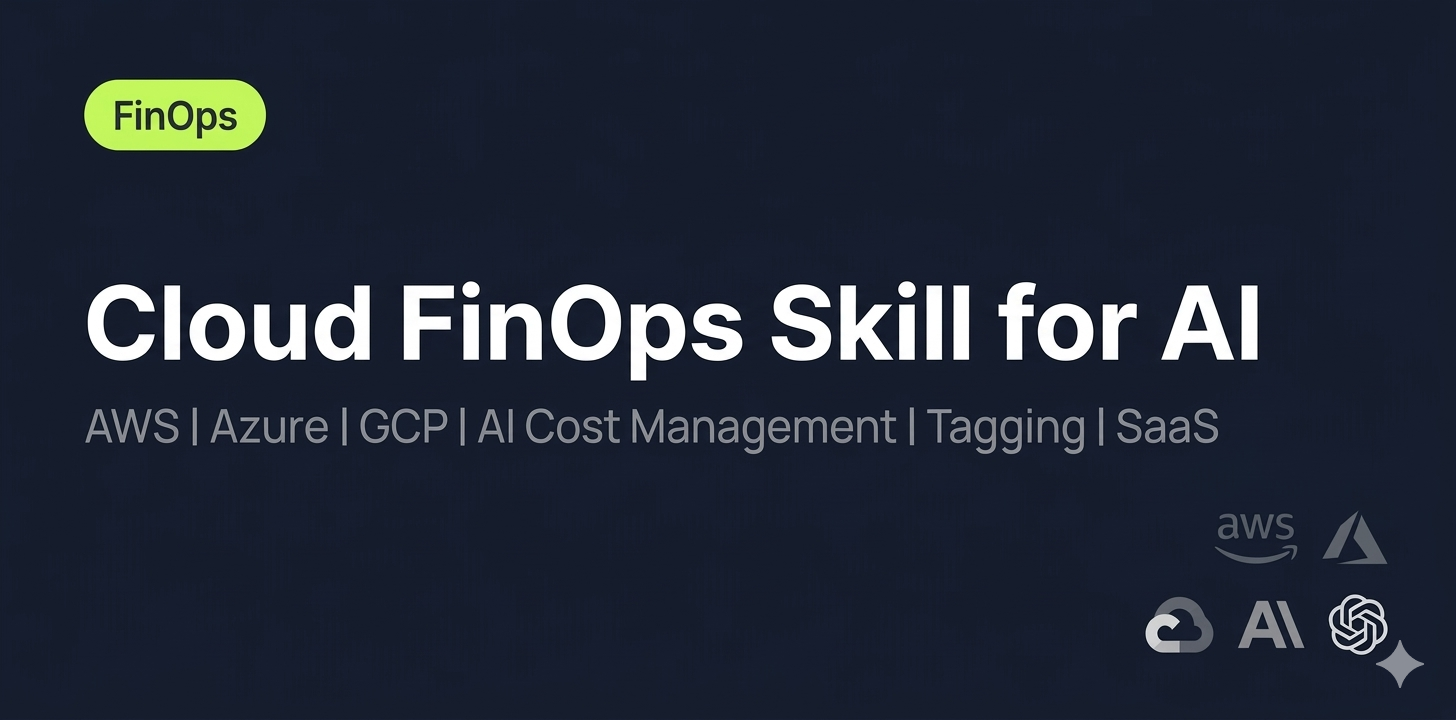
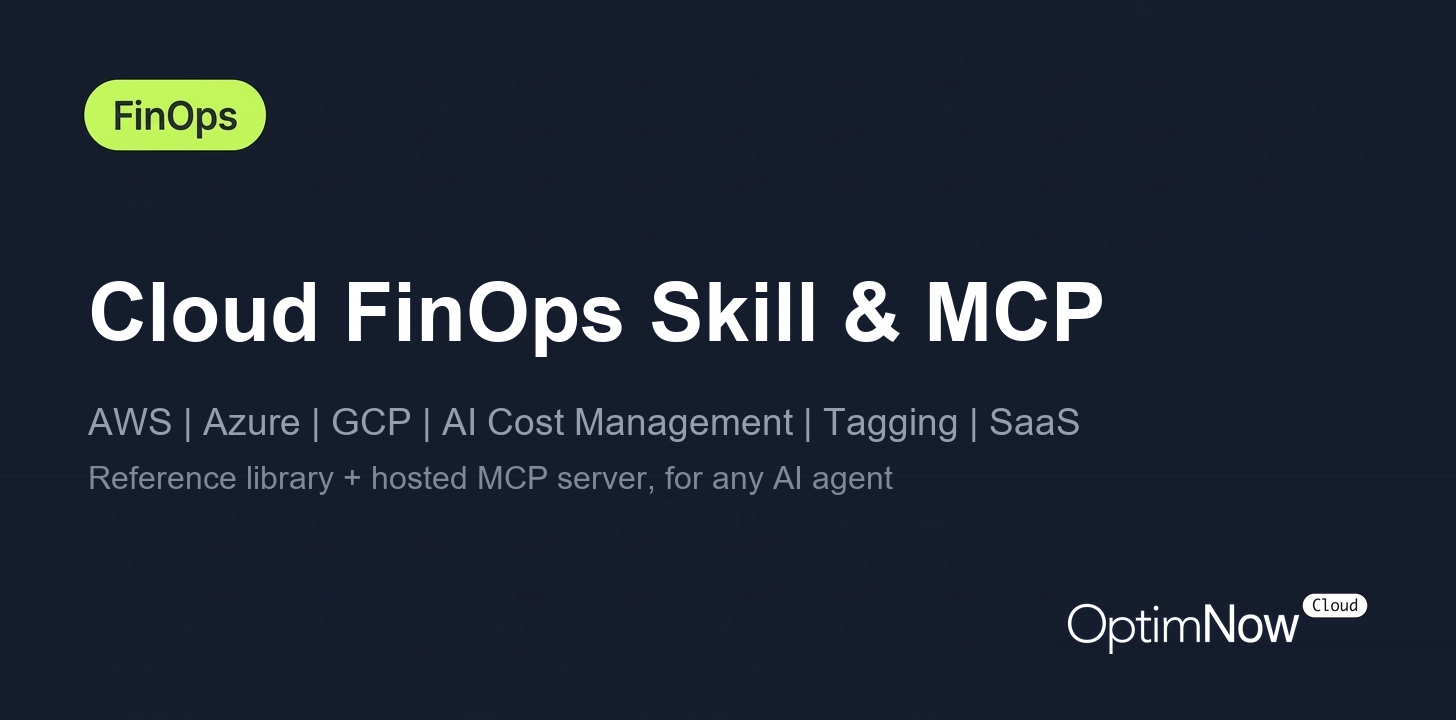
Rename to Cloud FinOps Skill & MCP, and refresh the social preview (#152)
The repo is now two things, a reference library and a queryable server, and the
name did not say so.

**Social preview.** Retitled, and the provider logo cluster removed. Reproducing
the AWS, Azure, GCP, OpenAI and Anthropic marks in a promotional visual goes
beyond the nominative use their brand guidelines allow, and we have no licence
for it. Replaced with the OptimNow logo, in the monochrome white-pill variant so
the image keeps exactly one green accent (the FinOps pill) as the brand rules
require. A second subtitle line names what the repo actually is, sized to stay
legible at social-card width.

Only the title band and the logo corner were repainted; the background gradient
is sampled per row, so the retouch is invisible.

**Rename.** Applied to the eight places that carry the product name:

- install.sh (header, CLI banner, Codex context header)
- both release workflows (GitHub Release titles)
- llms.txt line 1
- README H1, which said `cloud-finops-skills` and now reads as a name
- server.json title
- marketplace.json description, which said "references and tooling" and now
  names the three surfaces

**Deliberately not renamed:** the 36 `Cloud FinOps Skill by [OptimNow]` footer
lines on every reference and playbook, and the two equivalent lines install.sh
generates. Those are CC BY-SA attribution for the content, not the product name.
Third parties who reused the content carry that string; changing it would
invalidate their attribution.
[…]

Changed region(s): [[0.0618, 0.3667, 0.8654, 0.7028], [0.7109, 0.825, 0.989, 0.9472], [0.8345, 0.7028, 0.9581, 0.7944]]

diff --git a/README.md b/README.md
@@ -1,4 +1,4 @@
-# cloud-finops-skills
+# Cloud FinOps Skill & MCP
 
 > Built by [OptimNow](https://optimnow.io). Covers cloud financial management across
 > AWS, Azure, GCP, AI inference costs, GenAI capacity planning, SaaS asset management,
